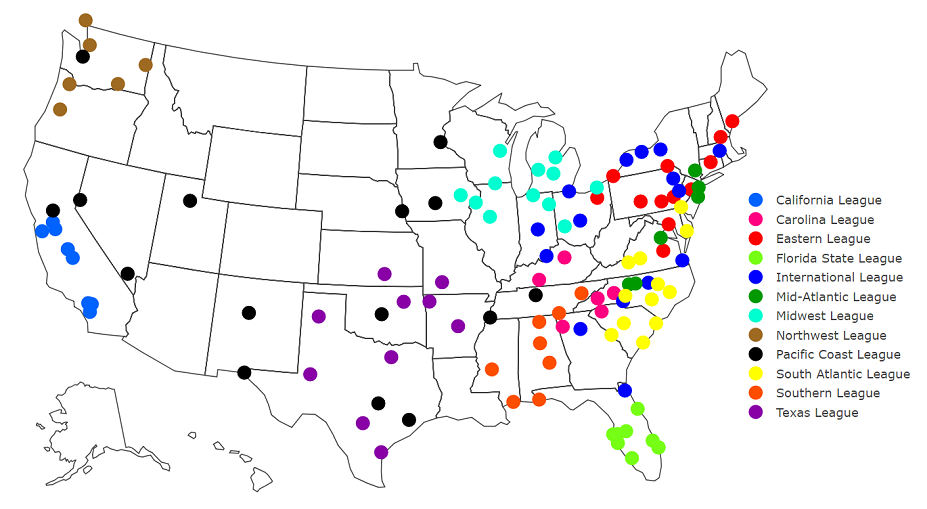
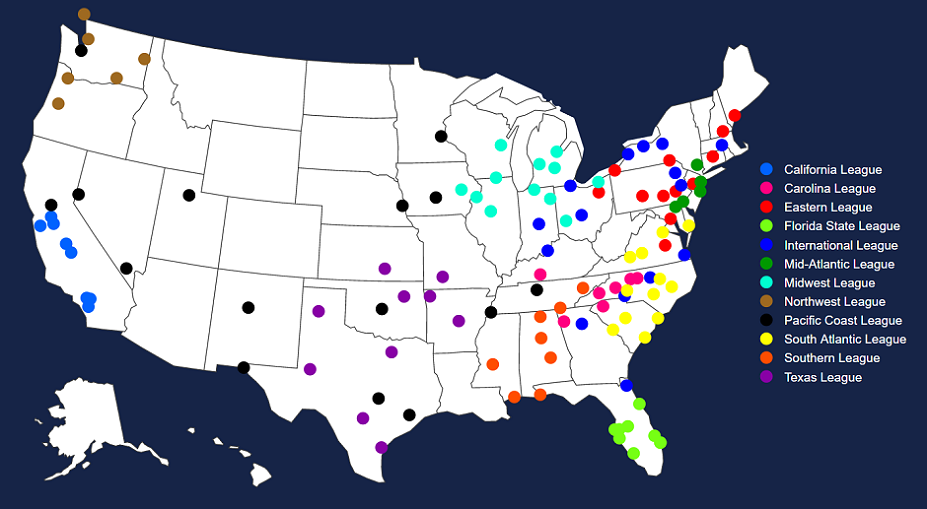
Added embedded Plotly map for 2021 affiliates

diff --git a/affiliates.html b/affiliates.html
@@ -57,12 +57,33 @@
             </nav>
         </div>
     </section>
+    <section id="graph">
+        <div class="container-fluid">
+            <div class="row justify-content-center">
+                <div class="col-lg-12">
+                    <div class="affiliates-by-league-header">
+                        2021 Affiliates Map
+                    </div>
+                    <div class="desktop-graph-2021">
+                        <iframe width="1100" height="600" frameborder=0 src="https://chart-studio.plotly.com/~Matt-Wales/1.embed"></iframe>
+                    </div>
+                    <div class="mobile-graph-2021">
+                        <div>
+                            <a href="https://chart-studio.plotly.com/~Matt-Wales/1.embed" target="_blank" title="Minors 2021" style="display: block; text-align: center;"><img src="affiliates.png" alt="Minors 2021" style="max-width: 100%;width: 927px;" width="927"/></a>
+                        </div>
+                    </div>
+                    <div class="mobile-graph-caption">
+                        <br>
+                        <i>(click anywhere on the graph to interact with it in a new tab<br>or view it on a desktop or laptop computer for full functionality)</i>
+                    </div>
+                </div>
+            </div>
+        </div>
+    </section>
     <section id="affiliates-by-league">
         <div class="container-fluid">
             <div class="affiliates-by-league-header">
-                <p>
                     Affiliates by League
-                </p>
             </div>
             <div class="row justify-content-center">
                 <div class="col-lg-12">

diff --git a/styles.css b/styles.css
@@ -27,6 +27,20 @@
     }
 }
 
+@media (max-width: 1100px) {
+    .desktop-graph-2021 {
+        display: none !important;
+    }
+
+    .mobile-graph-2021 {
+        display: inline !important;
+    }
+
+    .mobile-graph-caption {
+        display: inline !important;
+    }
+}
+
 /* HTML ELEMENTS */
 
 body {
@@ -339,6 +353,34 @@ table {
     background-color: #e43f5a;
     color: black;
     font-weight: bold;
+}
+
+.desktop-graph-2021 {
+    margin-bottom: 0 auto;
+}
+
+.mobile-graph-2021 {
+    display: none;
+}
+
+.mobile-graph-caption {
+    display: none;
+    font-size: 0.75rem;
+}
+
+.mobile-graph-image-container {
+    max-width: 110px;
+    position: relative;
+    object-fit: cover;
+    display: block;
+}
+
+.mobile-graph-image {
+    width: 100%;
+    height: 100%;
+    left: 0;
+    max-height: 100%;
+    object-fit: cover;
 }
 
 .club-ARI {

diff --git a/index.html b/index.html
@@ -16,7 +16,6 @@
     <script src="https://kit.fontawesome.com/071cc89e70.js" crossorigin="anonymous"></script>
 
     <title>Matt Wales</title>
-    
   </head>
   <body>
     <section id="title">
